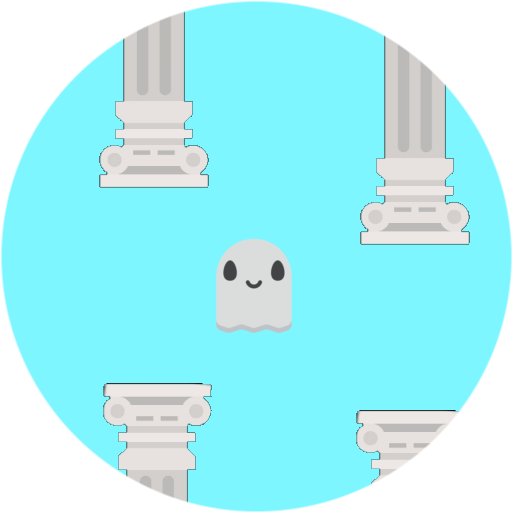
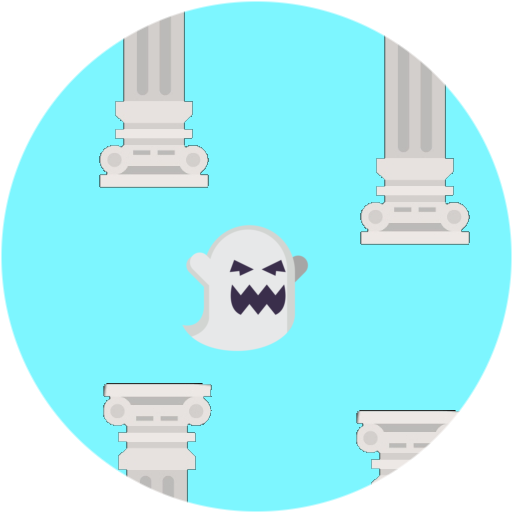
ass

Changed region(s): [[0.3438, 0.4375, 0.625, 0.6875]]

diff --git a/ShitShit/MainWindow.xaml b/ShitShit/MainWindow.xaml
@@ -158,11 +158,16 @@
         <StackPanel  Grid.Row="0" Grid.Column="1" Orientation="Horizontal" HorizontalAlignment="Center" VerticalAlignment="Center">
             <TextBlock Margin="5" Width="100" Name="tbGhostName" FontSize="30" VerticalAlignment="Bottom" Foreground="White"/>
         </StackPanel>
+        <StackPanel Name="spBlack" Grid.ColumnSpan="3" Grid.RowSpan="4" HorizontalAlignment="Center" VerticalAlignment="Center" Visibility="Hidden">
+            <Image x:Name="imageBlack" Width="1200" Height="1000" Source="/MyImages/black.png" Opacity="0.6" />
+        </StackPanel>
         <StackPanel Name="spNormal" Grid.Row="1" Grid.Column="1" HorizontalAlignment="Center" VerticalAlignment="Center" Visibility="Visible">
             <Image Name="imageGhost" Width="300" Height="300" Margin="10" />
         </StackPanel>
-        <StackPanel Grid.Column="0" Grid.Row="1" VerticalAlignment="Bottom" HorizontalAlignment="Center">
-            <Image Width="90" Height="90" Name="imageCandle"/>
+        <StackPanel Name="spbtnLightOff" Grid.Column="0" Grid.Row="1" VerticalAlignment="Bottom" HorizontalAlignment="Center">
+            <StackPanel>
+                <Image Width="90" Height="90" Name="imageCandle"/>
+            </StackPanel>
         </StackPanel>
     </Grid>
 </Window>

diff --git a/ShitShit/ToolsForms/GamesWindow.xaml b/ShitShit/ToolsForms/GamesWindow.xaml
@@ -15,12 +15,17 @@
         <StackPanel Grid.Row="0" Orientation="Horizontal" VerticalAlignment="Center" HorizontalAlignment="Center">
             <Button Name="btnGameRPS" Margin="10" Background="White" Click="btnGameRPS_Click" BorderThickness="0">
                 <StackPanel>
-                    <Image Height="60" Width="60" Source="/MyImages/rockPaperScissors_icon.png"/>
+                    <Image Height="80" Width="80" Source="/MyImages/rockPaperScissors_icon.png"/>
                 </StackPanel>
             </Button>
             <Button Name="btnGameFP" Margin="10" Background="White" Click="btnGameFP_Click"  BorderThickness="0">
                 <StackPanel>
-                    <Image Height="60" Width="60" Source="/MyImages/flappyghostgame_icon.png"/>
+                    <Image Height="80" Width="80" Source="/MyImages/flappyghostgame_icon.png"/>
+                </StackPanel>
+            </Button>
+            <Button Name="btnGameCP" Margin="10" Background="White" Click="btnGameCP_Click"  BorderThickness="0">
+                <StackPanel>
+                    <Image Height="80" Width="80" Source="/MyImages/catchbonesgame_icon.png"/>
                 </StackPanel>
             </Button>
         </StackPanel>

diff --git a/ShitShit/Games/CatchBonesGame.xaml b/ShitShit/Games/CatchBonesGame.xaml
@@ -1,0 +1,18 @@
+<Window x:Class="ShitShit.Games.CatchBonesGame"
+        xmlns="http://schemas.microsoft.com/winfx/2006/xaml/presentation"
+        xmlns:x="http://schemas.microsoft.com/winfx/2006/xaml"
+        xmlns:d="http://schemas.microsoft.com/expression/blend/2008"
+        xmlns:mc="http://schemas.openxmlformats.org/markup-compatibility/2006"
+        xmlns:local="clr-namespace:ShitShit.Games"
+        mc:Ignorable="d"
+        Title="Catch Bones Game" MinHeight="700" MinWidth="525" MaxHeight="700" MaxWidth="525">
+    <Canvas Name="cvCatchBones" Focusable="True" MouseMove="cvCatchBones_MouseMove">
+        <Canvas.Background>
+            <ImageBrush ImageSource="/MyImages/flappyGameBG.png"/>
+        </Canvas.Background>
+        <TextBlock Name="tbScore" FontSize="18" Foreground="White"/>
+        <TextBlock Name="tbMissed" FontSize="18" Foreground="White" Canvas.Left="390"/>
+        <Rectangle Name="rPlayer" Width="80" Height="80" Canvas.Left="215" Canvas.Top="590" Fill="PaleVioletRed"/>
+
+    </Canvas>
+</Window>

diff --git a/ShitShit/Games/CatchBonesGame.xaml.cs b/ShitShit/Games/CatchBonesGame.xaml.cs
@@ -1,0 +1,146 @@
+using System;
+using System.Collections.Generic;
+using System.Linq;
+using System.Text;
+using System.Threading.Tasks;
+using System.Windows;
+using System.Windows.Controls;
+using System.Windows.Data;
+using System.Windows.Documents;
+using System.Windows.Input;
+using System.Windows.Media;
+using System.Windows.Media.Imaging;
+using System.Windows.Shapes;
+using System.Windows.Threading;
+
+namespace ShitShit.Games
+{
+    /// <summary>
+    /// Логика взаимодействия для CatchBonesGame.xaml
+    /// </summary>
+    public partial class CatchBonesGame : Window
+    {
+        int maxItems= 5;
+        int currentItems = 0;
+        int score = 0;
+        int missed = 0;
+        Random random = new Random();
+        Rect basketHitBox;
+        DispatcherTimer timer = new DispatcherTimer();
+        List<Rectangle> itemsRemove = new List<Rectangle>();
+        int itemSpeed = 10;
+        ImageBrush imageBasket = new ImageBrush();
+        
+        public CatchBonesGame()
+        {
+            InitializeComponent();
+            cvCatchBones.Focus();
+            timer.Tick += GameEngine;
+            timer.Interval = TimeSpan.FromMilliseconds(20);
+            timer.Start();
+            var uriLeft = new Uri("/MyImages/leftbasket_icon.png", UriKind.Relative);
+            imageBasket.ImageSource = new BitmapImage(uriLeft);
+            rPlayer.Fill = imageBasket;
+        }
+
+        private void GameEngine(object sender, EventArgs e)
+        {
+            tbScore.Text = "Caught: " + score.ToString();
+            tbMissed.Text = "Missed: " + missed.ToString();
+            if (currentItems < maxItems)
+            {
+                MakeBones();
+                currentItems++;
+                itemsRemove.Clear();
+            }
+            foreach (var x in cvCatchBones.Children.OfType<Rectangle>())
+            {
+                if ((string)x.Tag == "drops")
+                {
+                    Canvas.SetTop(x, Canvas.GetTop(x) + itemSpeed);
+                    if (Canvas.GetTop(x) > 720)
+                    {
+                        itemsRemove.Add(x);
+                        currentItems--;
+                        missed++;
+                    }
+                    Rect bonesHitBox = new Rect(Canvas.GetLeft(x), Canvas.GetTop(x), x.Width, x.Height);
+                    basketHitBox = new Rect(Canvas.GetLeft(rPlayer), Canvas.GetTop(rPlayer), rPlayer.Width, rPlayer.Height);
+                    if (basketHitBox.IntersectsWith(bonesHitBox))
+                    {
+                        itemsRemove.Add(x);
+                        currentItems--;
+                        score++;
+                    }
+                }
+            }
+            foreach (var i in itemsRemove)
+            { 
+                cvCatchBones.Children.Remove(i);
+            }
+            if (score > 10)
+            {
+                itemSpeed = 20;
+            }
+            if (missed > 10)
+            {
+                timer.Stop();
+                MessageBox.Show("You lost!" + Environment.NewLine + "You Scored: " + score + Environment.NewLine + "Click ok to play again.", "Information", MessageBoxButton.OK, MessageBoxImage.Information);
+                ResetGame();
+            }
+        }
+
+
+        private void cvCatchBones_MouseMove(object sender, MouseEventArgs e)
+        {
+            Point position = e.GetPosition(this);
+            double px = position.X;
+            Canvas.SetLeft(rPlayer, px - 10);
+            if (Canvas.GetLeft(rPlayer) < 260)
+            {
+                imageBasket.ImageSource = new BitmapImage(new Uri("/MyImages/leftbasket_icon.png"));
+            }
+            else 
+            {
+                imageBasket.ImageSource = new BitmapImage(new Uri("/MyImages/rightbasket_icon.png"));
+            }
+        }
+        private void MakeBones()
+        { 
+            ImageBrush bones= new ImageBrush();
+            int ra = random.Next(1,4);
+            switch (ra)
+            {
+                case 1:
+                    bones.ImageSource = new BitmapImage(new Uri("/MyImages/bonesOne_icon.png"));
+                    break;
+                case 2:
+                    bones.ImageSource = new BitmapImage(new Uri("/MyImages/bonesTwo_icon.png"));
+                    break;
+                case 3:
+                    bones.ImageSource = new BitmapImage(new Uri("/MyImages/skull_icon.png"));
+                    break;
+                case 4:
+                    bones.ImageSource = new BitmapImage(new Uri("/MyImages/cowskull_icon.png"));
+                    break;
+            }
+            Rectangle newRec = new Rectangle
+            { 
+                Tag = "drops",
+                Width = 50,
+                Height = 50,
+                Fill = bones
+            };
+            Canvas.SetLeft(newRec, random.Next(10,450));
+            Canvas.SetTop(newRec, random.Next(60, 150 * -1));
+            cvCatchBones.Children.Add(newRec); 
+        }
+        private void ResetGame()
+        {
+            Games.CatchBonesGame catchBonesGame= new Games.CatchBonesGame();
+            Application.Current.MainWindow =catchBonesGame;
+            catchBonesGame.Show();
+            this.Close();
+        }
+    }
+}

diff --git a/ShitShit/MainWindow.xaml.cs b/ShitShit/MainWindow.xaml.cs
@@ -37,13 +37,13 @@ namespace ShitShit
             ghost.TimerForChangeParameters();
             
         }
-        private void TimarForChangeghostPic()
-        {
+        //private void TimarForChangeghostPic()
+        //{
 
-            dispatcherTimerVP.Tick += new EventHandler(dispatcherTimer_Tick);
-            dispatcherTimerVP.Interval = new TimeSpan(0, 0, 0, 0, 1000);
-            dispatcherTimerVP.Start();
-        }
+        //    dispatcherTimerVP.Tick += new EventHandler(dispatcherTimer_Tick);
+        //    dispatcherTimerVP.Interval = new TimeSpan(0, 0, 0, 0, 1000);
+        //    dispatcherTimerVP.Start();
+        //}
         private void GhostCheck()
         {
             if (ghost.Health >= 60 || ghost.Food >= 60 || ghost.Happy >= 60 || ghost.Sleep >= 60)
@@ -63,11 +63,11 @@ namespace ShitShit
             }
 
         }
-        private void dispatcherTimer_Tick(object sender, EventArgs e)
-        {
-            var uriVeryHappy = new Uri("/MyImages/veryhappyghost_icon.png", UriKind.Relative);
-            imageGhost.Source = new BitmapImage(uriVeryHappy);
-        }
+        //private void dispatcherTimer_Tick(object sender, EventArgs e)
+        //{
+        //    var uriVeryHappy = new Uri("/MyImages/veryhappyghost_icon.png", UriKind.Relative);
+        //    imageGhost.Source = new BitmapImage(uriVeryHappy);
+        //}
 
         public void PersentReturn()
         {
@@ -91,18 +91,18 @@ namespace ShitShit
            
             if (ghost.SleepReturn() < 90)
             {
+                spBlack.Visibility = Visibility.Visible;
                 var uriCandleOff = new Uri("/MyImages/candleskulloff_icon.png", UriKind.Relative);
                 imageCandle.Source = new BitmapImage(uriCandleOff);
-                var uriOne = new Uri("/MyImages/sleepghost.png", UriKind.Relative);
-                imageGhost.Source = new BitmapImage(uriOne);
-                pbSleep.Visibility = Visibility.Visible;
+                var uriSleep = new Uri("/MyImages/sleepghost.png", UriKind.Relative);
+                imageGhost.Source = new BitmapImage(uriSleep);
                 for (int i = 10; i > 0; i--)
                 {
                     pbSleep.Value++;
                     ghost.Sleep = 100;
                     Thread.Sleep(1000);
                 }
-                pbSleep.Visibility = Visibility.Hidden;
+                spBlack.Visibility = Visibility.Hidden;
                 var uriCandleOn = new Uri("/MyImages/candleskull_icon.png", UriKind.Relative);
                 imageCandle.Source = new BitmapImage(uriCandleOn);
                 GhostCheck();
@@ -202,5 +202,6 @@ namespace ShitShit
             GhostCheck();
             spGameChoose.Visibility = Visibility.Hidden;
         }
+
     }
 }

diff --git a/ShitShit/ToolsForms/GamesWindow.xaml.cs b/ShitShit/ToolsForms/GamesWindow.xaml.cs
@@ -42,5 +42,12 @@ namespace ShitShit.ToolsForms
             flappyGhostGame.Show();
             Close();
         }
+
+        private void btnGameCP_Click(object sender, RoutedEventArgs e)
+        {
+            Games.CatchBonesGame catchBonesGame = new Games.CatchBonesGame();   
+            catchBonesGame.Show();
+            Close();
+        }
     }
 }
